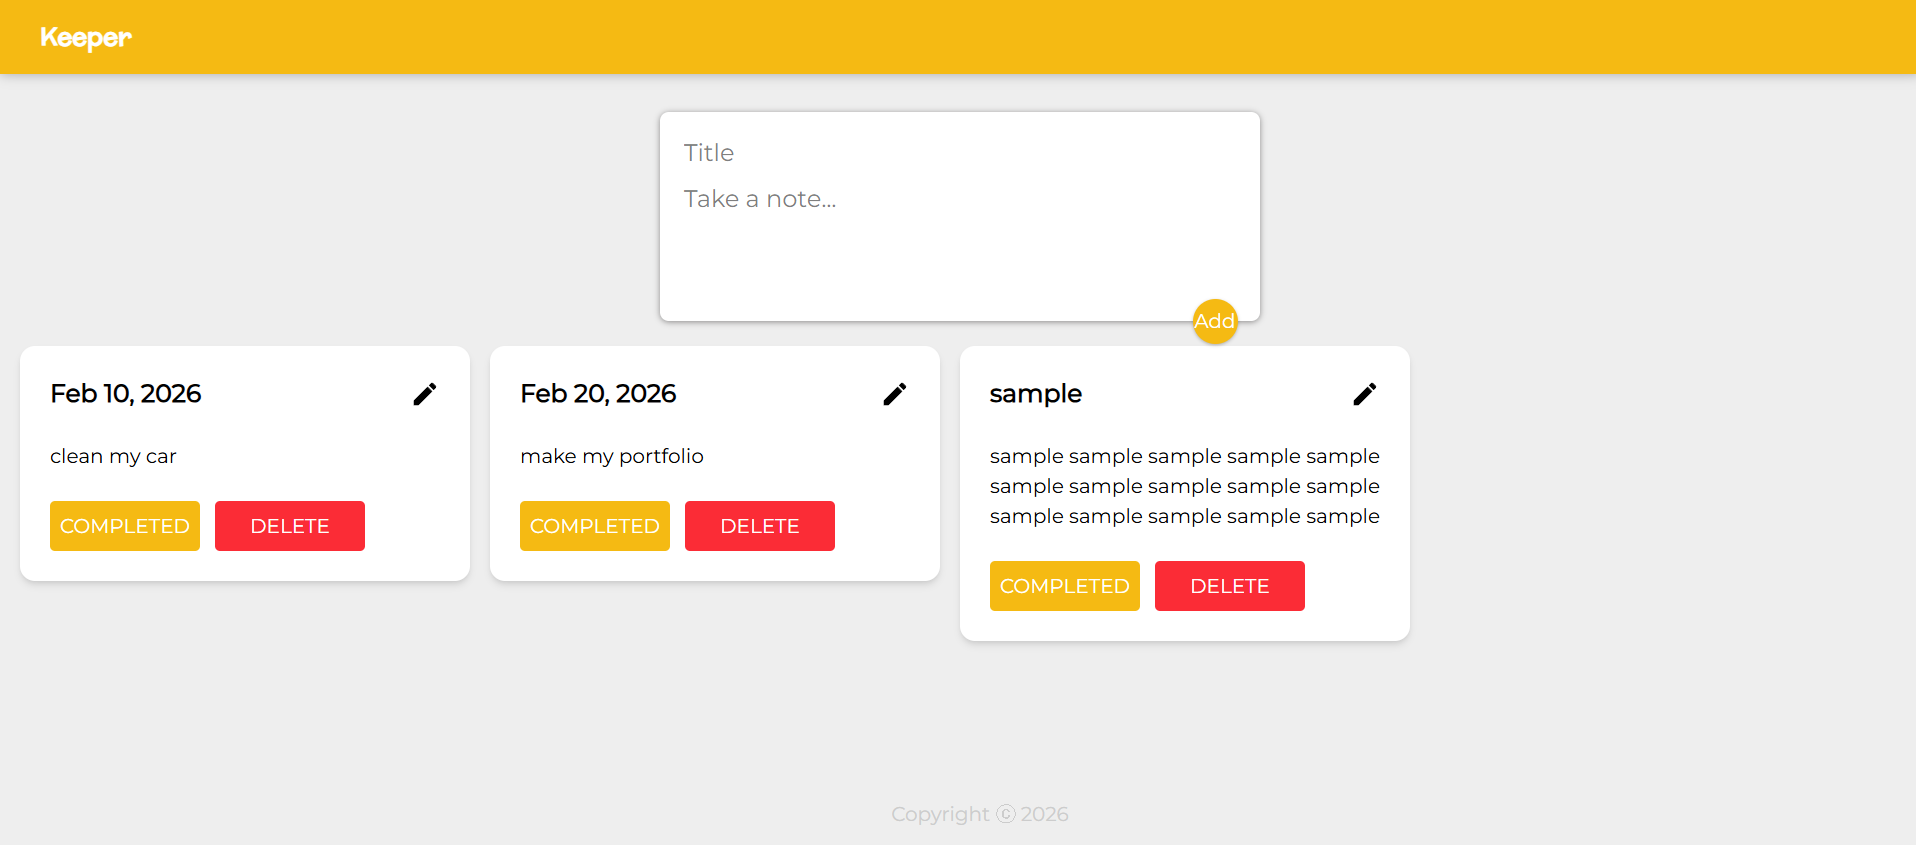
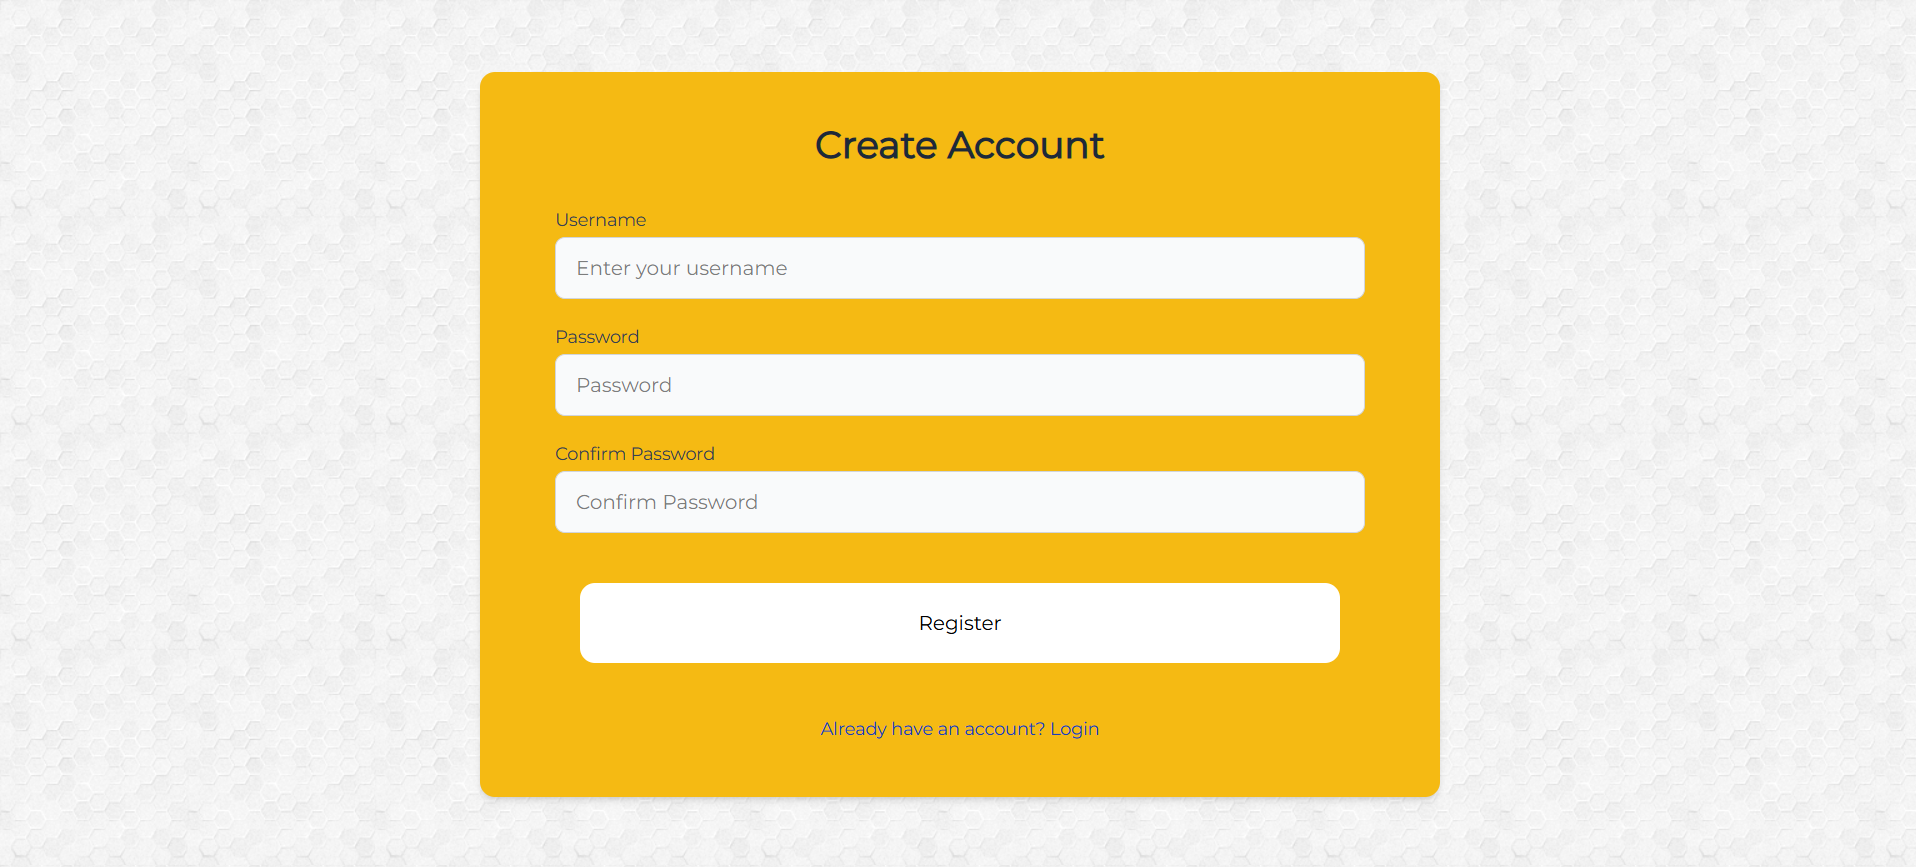
updated keeper app

diff --git a/FRONTEND/src/components/project/ProjectPage.jsx b/FRONTEND/src/components/project/ProjectPage.jsx
@@ -22,18 +22,19 @@ export default function ProjectPage() {
         },
         {title:'AWS Deployment', 
         description:'Built a cloud-based system where the backend runs on Amazon EC2, application data is securely stored in Amazon RDS, and images and files are managed using Amazon S3 for scalable storage.', 
-        img:['/images/keeper/1.png','/images/keeper/2.png','/images/keeper/3.png'],
-        technologies :['AWS','RDS','EC2','S3 Bucket','React','Express', 'postgres', 'Node'],
+        img:['/images/keeper/1.png','/images/keeper/2.png','/images/keeper/3.png','/images/keeper/4.png','/images/keeper/5.png','/images/keeper/6.png'],
+        technologies :['AWS','RDS','EC2','React','Express', 'Postgres', 'Node'],
         features:[
-            'Successfully deployed a full-stack Note-Taking application to AWS. Engineered a robust backend on EC2, implemented persistent data storage via RDS, and optimized asset delivery using S3 Buckets. This setup ensures the application is production-ready, scalable, and follows cloud security best practices.',
-            
-            'Create: A top input area with "Title" and "Take a note..." fields, triggered by an "Add" button.',
-            'Read: Notes displayed as cards with a title and content body.',
-            'Update (Status): A "Completed" button that applies a strike-through effect to the text (as seen on the "Feb 10, 2026" note).',
-            'Edit Trigger: An edit icon (pencil) in the top-right corner of each note card, which is the perfect hook for your modal.',
+            'Cloud Deployment – Hosted on AWS EC2 with Nginx and PM2 for reliable production uptime.',
+            'Real-World Ready – Combines full-stack technologies and cloud deployment for a professional application.',
+            'User Authentication & Security – Users can register and log in securely using JWT for protected sessions.',
+            'Task Management – Users can create, read, update, and delete their tasks easily.',
+            'Interactive Frontend – Built with React, the UI is responsive and updates in real-time.',
+            'Backend API – Node.js and Express handle requests and protect routes for authenticated users.',
+            'Database Integration – PostgreSQL on AWS RDS securely stores users and tasks.',
             
             ],
-        link: 'http://aws-keeper-frontend.s3-website-ap-southeast-1.amazonaws.com',
+        link: 'http://3.1.81.248',
         is_status: true,
         duration: '1 week'
         },
